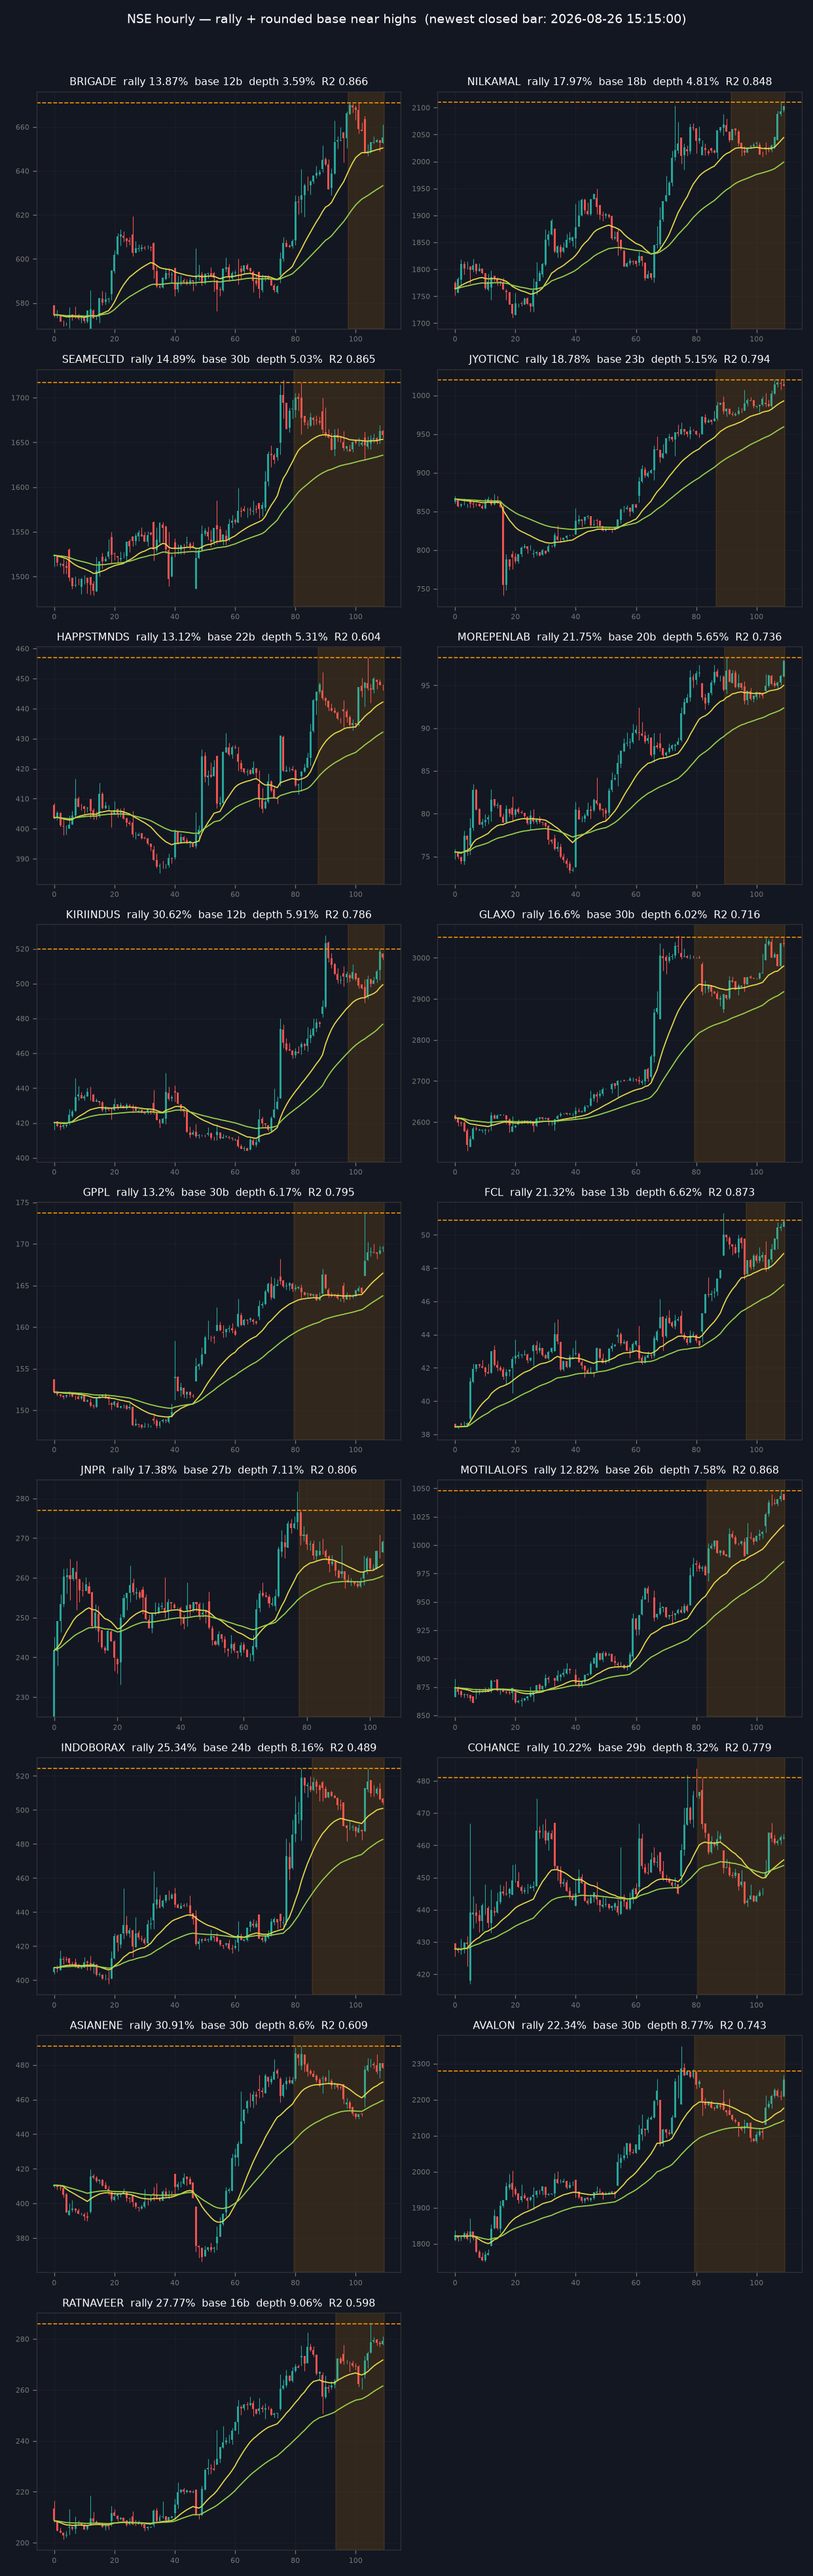
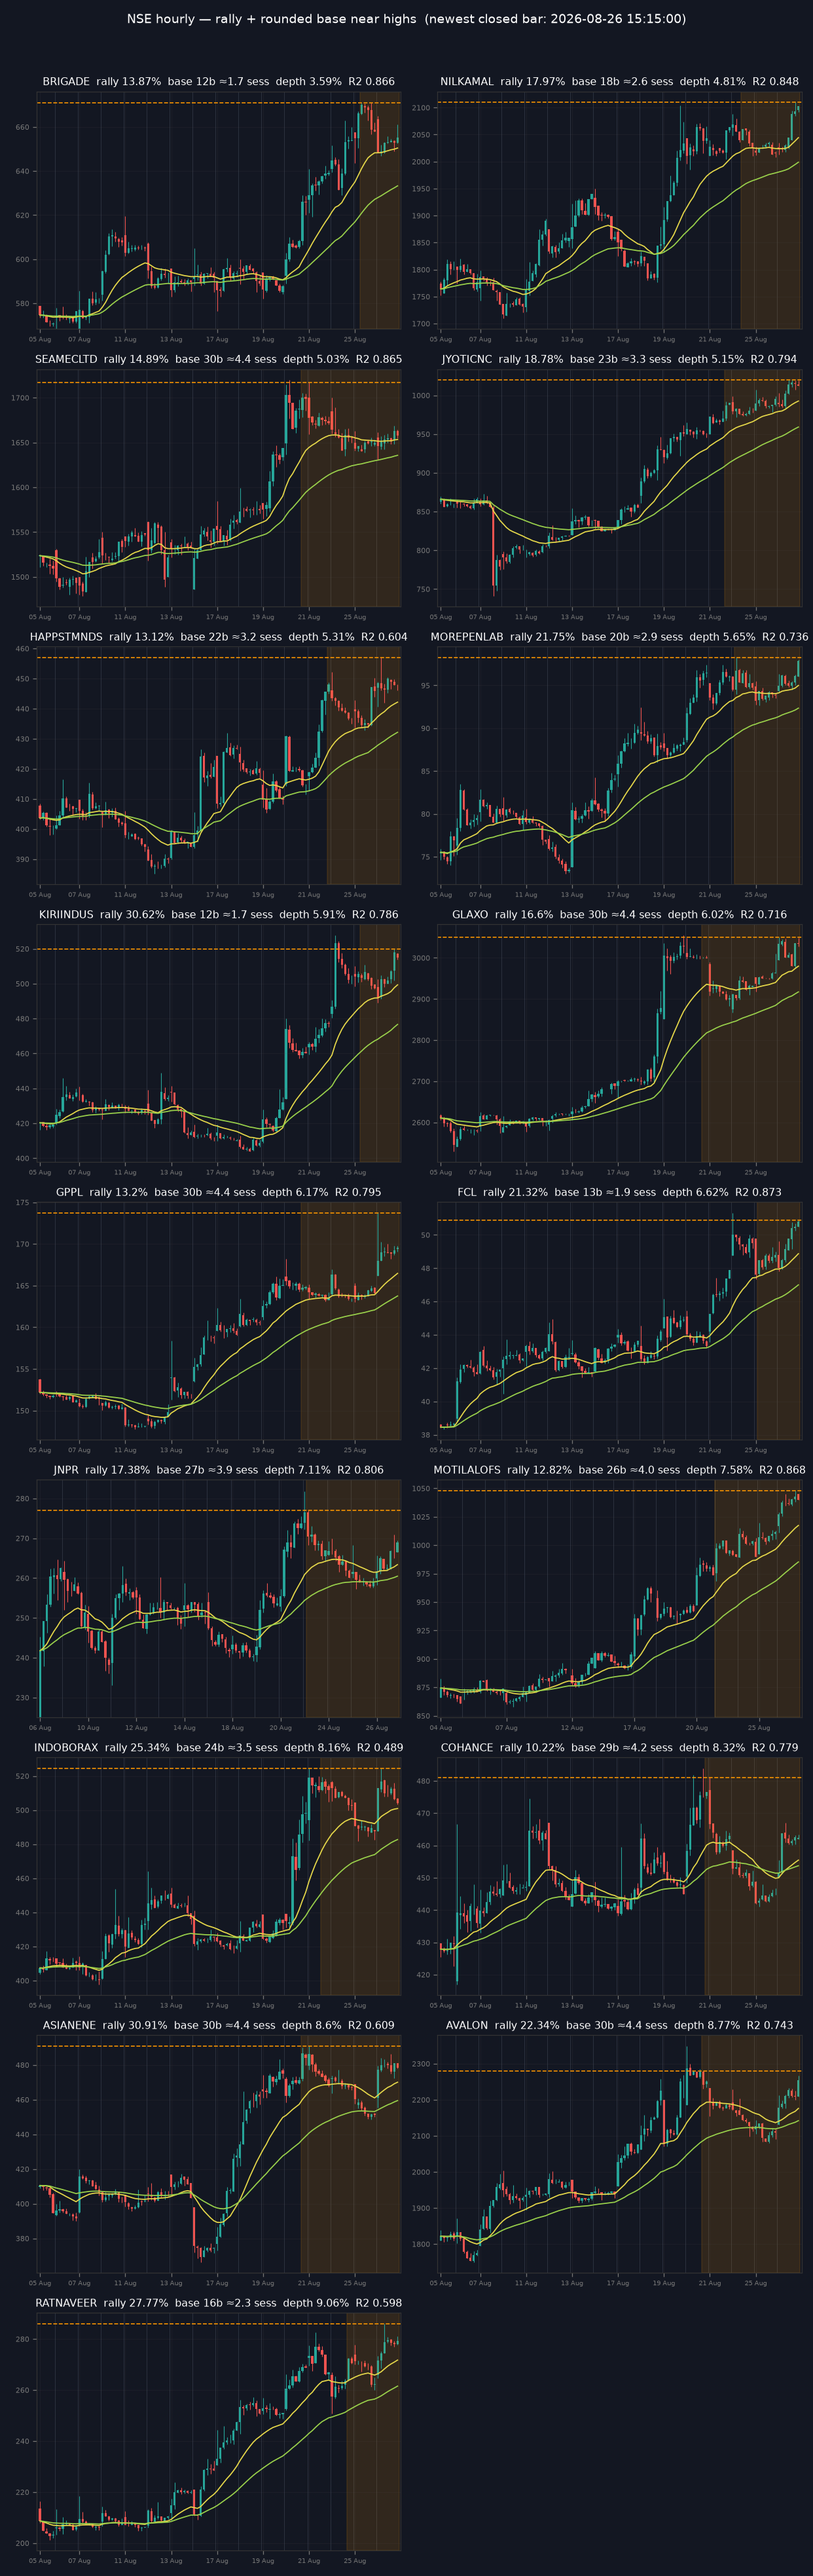
Re-render 2026-08-26 panels with a dated x-axis; quote bases in sessions
The archived chart carried a bare 0..110 bar index, which reads as ~5 months
of daily candles rather than the ~3 weeks of hourly ones it actually is. The
data was always hourly -- 09:15..15:15 at ~6.9 bars per session, verified
against all_closed.parquet -- but nothing on the panel said so, and the bar
counts in the report inherited the same ambiguity.

Re-rendered with session-boundary rules, dated tick labels, and each panel
title restating base width in sessions. The report gains an "≈ Sessions"
column beside "Base bars" plus a note that the widest base here is 4.4
sessions, not 30 days.

This sharpens three readings rather than changing any number: BRIGADE (#1 on
RRR), KIRIINDUS and FCL build their entire base in under two sessions, which
is thin evidence a base exists and is now the batch's headline caveat.

Chart and prose only -- hits_clean.csv, hits_clean.json and run_meta.json are
byte-identical, and no detector threshold, filter parameter, or ranking rule
was touched.

Claude-Session: https://claude.ai/code/session_01Jdo4MSEG9UpCmjALiQ1HHW

diff --git a/runs/2026-08-26/1705-EQ/report.md b/runs/2026-08-26/1705-EQ/report.md
@@ -72,25 +72,31 @@ Ranked by `rrr_structural` = 15% target ÷ base depth. This reduces to inverse b
 depth — it says what the trade pays if it works and is **silent on how often it
 works**. Do not read row 1 as most likely to succeed.
 
-| # | Symbol | RRR | Entry (lip) | Base low | Depth % | Risk to base low % | Dist from lip % | Base bars | Rally % | R² | Vol ratio | Turnover ₹cr |
-|---|---|---|---|---|---|---|---|---|---|---|---|---|
-| 1 | BRIGADE | 4.18 | 671.00 | 646.90 | 3.59 | 3.59 | 2.37 | 12 | 13.87 | 0.866 | 0.79 | 13.7 |
-| 2 | NILKAMAL | 3.12 | 2110.00 | 2008.60 | 4.81 | 4.81 | 0.33 | 18 | 17.97 | 0.848 | 0.09 | 6.7 |
-| 3 | SEAMECLTD | 2.98 | 1716.90 | 1630.50 | 5.03 | 5.03 | 3.42 | 30 | 14.89 | 0.865 | 0.25 | 6.2 |
-| 4 | JYOTICNC | 2.91 | 1020.00 | 967.45 | 5.15 | 5.15 | 0.72 | 23 | 18.78 | 0.794 | 0.50 | 53.8 |
-| 5 | HAPPSTMNDS | 2.82 | 457.00 | 432.75 | 5.31 | 5.31 | 2.00 | 22 | 13.12 | 0.604 | 0.46 | 30.9 |
-| 6 | MOREPENLAB | 2.65 | 98.25 | 92.70 | 5.65 | 5.65 | 0.37 | 20 | 21.75 | 0.736 | 0.50 | 119.6 |
-| 7 | KIRIINDUS | 2.54 | 519.80 | 489.10 | 5.91 | 5.91 | 0.92 | 12 | 30.62 | 0.786 | 0.26 | 7.2 |
-| 8 | GLAXO | 2.49 | 3049.90 | 2866.30 | 6.02 | 6.02 | 0.51 | 30 | 16.60 | 0.716 | 0.36 | 14.3 |
-| 9 | GPPL | 2.43 | 173.72 | 163.00 | 6.17 | 6.17 | 2.42 | 30 | 13.20 | 0.795 | 0.74 | 15.1 |
-| 10 | FCL | 2.27 | 50.90 | 47.53 | 6.62 | 6.62 | 0.16 | 13 | 21.32 | 0.873 | 0.74 | 28.5 |
-| 11 | JNPR | 2.11 | 277.00 | 257.31 | 7.11 | 7.11 | 2.89 | 27 | 17.38 | 0.806 | 0.30 | 31.6 |
-| 12 | MOTILALOFS | 1.98 | 1048.00 | 968.55 | 7.58 | 7.58 | 0.76 | 26 | 12.82 | 0.868 | 0.71 | 53.5 |
-| 13 | INDOBORAX | 1.84 | 524.50 | 481.70 | 8.16 | 8.16 | 3.86 | 24 | 25.34 | 0.489 | 0.22 | 5.1 |
-| 14 | COHANCE | 1.80 | 481.00 | 441.00 | 8.32 | 8.32 | 3.88 | 29 | 10.22 | 0.779 | 0.36 | 24.0 |
-| 15 | ASIANENE | 1.74 | 490.95 | 448.75 | 8.60 | 8.60 | 2.53 | 30 | 30.91 | 0.609 | 0.26 | 11.0 |
-| 16 | AVALON | 1.71 | 2279.30 | 2079.40 | 8.77 | 8.77 | 1.07 | 30 | 22.34 | 0.743 | 0.61 | 55.8 |
-| 17 | RATNAVEER | 1.66 | 286.00 | 260.10 | 9.06 | 9.06 | 2.35 | 16 | 27.77 | 0.598 | 0.64 | 92.0 |
+| # | Symbol | RRR | Entry (lip) | Base low | Depth % | Risk to base low % | Dist from lip % | Base bars | ≈ Sessions | Rally % | R² | Vol ratio | Turnover ₹cr |
+|---|---|---|---|---|---|---|---|---|---|---|---|---|---|
+| 1 | BRIGADE | 4.18 | 671.00 | 646.90 | 3.59 | 3.59 | 2.37 | 12 | **1.7** | 13.87 | 0.866 | 0.79 | 13.7 |
+| 2 | NILKAMAL | 3.12 | 2110.00 | 2008.60 | 4.81 | 4.81 | 0.33 | 18 | 2.6 | 17.97 | 0.848 | 0.09 | 6.7 |
+| 3 | SEAMECLTD | 2.98 | 1716.90 | 1630.50 | 5.03 | 5.03 | 3.42 | 30 | 4.4 | 14.89 | 0.865 | 0.25 | 6.2 |
+| 4 | JYOTICNC | 2.91 | 1020.00 | 967.45 | 5.15 | 5.15 | 0.72 | 23 | 3.3 | 18.78 | 0.794 | 0.50 | 53.8 |
+| 5 | HAPPSTMNDS | 2.82 | 457.00 | 432.75 | 5.31 | 5.31 | 2.00 | 22 | 3.2 | 13.12 | 0.604 | 0.46 | 30.9 |
+| 6 | MOREPENLAB | 2.65 | 98.25 | 92.70 | 5.65 | 5.65 | 0.37 | 20 | 2.9 | 21.75 | 0.736 | 0.50 | 119.6 |
+| 7 | KIRIINDUS | 2.54 | 519.80 | 489.10 | 5.91 | 5.91 | 0.92 | 12 | **1.7** | 30.62 | 0.786 | 0.26 | 7.2 |
+| 8 | GLAXO | 2.49 | 3049.90 | 2866.30 | 6.02 | 6.02 | 0.51 | 30 | 4.4 | 16.60 | 0.716 | 0.36 | 14.3 |
+| 9 | GPPL | 2.43 | 173.72 | 163.00 | 6.17 | 6.17 | 2.42 | 30 | 4.4 | 13.20 | 0.795 | 0.74 | 15.1 |
+| 10 | FCL | 2.27 | 50.90 | 47.53 | 6.62 | 6.62 | 0.16 | 13 | **1.9** | 21.32 | 0.873 | 0.74 | 28.5 |
+| 11 | JNPR | 2.11 | 277.00 | 257.31 | 7.11 | 7.11 | 2.89 | 27 | 3.9 | 17.38 | 0.806 | 0.30 | 31.6 |
+| 12 | MOTILALOFS | 1.98 | 1048.00 | 968.55 | 7.58 | 7.58 | 0.76 | 26 | 4.0 | 12.82 | 0.868 | 0.71 | 53.5 |
+| 13 | INDOBORAX | 1.84 | 524.50 | 481.70 | 8.16 | 8.16 | 3.86 | 24 | 3.5 | 25.34 | 0.489 | 0.22 | 5.1 |
+| 14 | COHANCE | 1.80 | 481.00 | 441.00 | 8.32 | 8.32 | 3.88 | 29 | 4.2 | 10.22 | 0.779 | 0.36 | 24.0 |
+| 15 | ASIANENE | 1.74 | 490.95 | 448.75 | 8.60 | 8.60 | 2.53 | 30 | 4.4 | 30.91 | 0.609 | 0.26 | 11.0 |
+| 16 | AVALON | 1.71 | 2279.30 | 2079.40 | 8.77 | 8.77 | 1.07 | 30 | 4.4 | 22.34 | 0.743 | 0.61 | 55.8 |
+| 17 | RATNAVEER | 1.66 | 286.00 | 260.10 | 9.06 | 9.06 | 2.35 | 16 | 2.3 | 27.77 | 0.598 | 0.64 | 92.0 |
+
+**Read the bar counts as sessions.** These are hourly candles at roughly 6.9 bars
+per NSE session, so the widest base here is **4.4 sessions**, not 30 days — the
+entire 110-bar plot window spans about three weeks. Three names build their whole
+"base" in under two sessions (BRIGADE, KIRIINDUS, FCL), which is thin evidence that
+a base exists at all and is the single biggest caveat on this batch.
 
 **Two boundary passes** — a boundary pass is not the same evidence as a margin pass:
 
@@ -106,12 +112,14 @@ places, which is the point of the step.
 ### Clean structural match (4)
 
 - **MOREPENLAB** (#6) — the best structure in the batch. A sustained 22% multi-bar
-  climb from ₹73 to ₹98, then a shallow, genuinely rounded 20-bar base that dips to
-  ₹93.5 and recovers; both EMAs run under the base and rise through it; price is
-  pressing the lip (0.37% away). Easily the most liquid name here at ₹120cr/day.
-- **GLAXO** (#8) — a textbook 30-bar rounded U: down from ₹3,050 to ₹2,866, curved,
-  and back to ₹3,034, with the fast EMA dipping and rising through. The leg into it
-  was steep, but the base itself is the cleanest rounding on the sheet.
+  climb from ₹73 to ₹98, then a shallow, genuinely rounded 20-bar (≈2.9-session)
+  base that dips to ₹93.5 and recovers; both EMAs run under the base and rise
+  through it; price is pressing the lip (0.37% away). Easily the most liquid name
+  here at ₹120cr/day.
+- **GLAXO** (#8) — a textbook 30-bar (≈4.4-session) rounded U: down from ₹3,050 to
+  ₹2,866, curved, and back to ₹3,034, with the fast EMA dipping and rising through.
+  The leg into it was steep, but the base itself is the cleanest rounding on the
+  sheet.
 - **MOTILALOFS** (#12) — a clean ascending consolidation resolving upward on the
   final bars, EMAs stacked under and rising, ₹53cr/day. **Its rank is depressed by a
   wick** — see the sizing note below.
@@ -125,10 +133,10 @@ places, which is the point of the step.
 - **JYOTICNC** (#4) — strong, orderly uptrend, but **there is no base**: the shaded
   window is still rising. The 5.15% "depth" comes from a dip inside a continuation
   leg. Fine as a trend-continuation name, wrong as a rounded-base match.
-- **FCL** (#10) — tight 13-bar base sitting 0.16% under the lip, but short, and the
-  approach into it is steep.
-- **AVALON** (#16) — a reasonably rounded 30-bar base, undercut by 8.77% depth and
-  the boundary pass on the at-high filter.
+- **FCL** (#10) — tight 13-bar base sitting 0.16% under the lip, but that is only
+  **1.9 sessions**, and the approach into it is steep.
+- **AVALON** (#16) — a reasonably rounded 30-bar (≈4.4-session) base, undercut by
+  8.77% depth and the boundary pass on the at-high filter.
 - **ASIANENE** (#15) — rounds, but deep (8.6%) and it follows a near-vertical 31%
   advance.
 - **SEAMECLTD** (#3) — a flat shelf, not a cup. The fast EMA runs **flat** through
@@ -138,13 +146,13 @@ places, which is the point of the step.
   `max_bar_share` 0.48 against the 0.50 gap-driven floor: nearly half the rally came
   from one bar. It passed that filter by a hair.
 - **BRIGADE** (#1) — **the #1 rank is an artifact.** Its base is only 12 bars, and a
-  short base is mechanically shallow, which is exactly what RRR rewards. What the
-  panel shows is a 12-bar pullback from a spike top, with the fast EMA flat through
-  it. Shallow because brief, not shallow because tight.
+  short base is mechanically shallow, which is exactly what RRR rewards. At ≈6.9 bars
+  per session that is a **1.7-session** pullback from a spike top, with the fast EMA
+  flat through it. Shallow because brief, not shallow because tight.
 - **GPPL** (#9) — flat shelf at ₹163–166, and the ₹173.72 lip is set by a single
   spike candle that price has already fallen 2.4% back from.
-- **KIRIINDUS** (#7) — a near-vertical 31% advance with a 12-bar pause. Thin
-  evidence that a base exists at all.
+- **KIRIINDUS** (#7) — a near-vertical 31% advance with a 12-bar (**1.7-session**)
+  pause. Thin evidence that a base exists at all.
 
 ### Distrust despite passing every filter (4)
 
@@ -153,8 +161,8 @@ places, which is the point of the step.
   There is heavy overhead supply at ₹465–475, rejected twice earlier in the panel.
   This is a failed breakout, structurally the opposite of the setup.
 - **RATNAVEER** (#17) — the V-bounce the skill exists to catch: a sharp 9% drop and
-  an equally sharp recovery over 16 bars, sitting on top of a 37% run. Deepest base
-  in the batch, and the shape is a checkmark, not a saucer.
+  an equally sharp recovery over 16 bars (≈2.3 sessions), sitting on top of a 37%
+  run. Deepest base in the batch, and the shape is a checkmark, not a saucer.
 - **INDOBORAX** (#13) — weakest fit here (R² 0.489, barely over the 0.45 floor), a
   noisy shelf after a near-vertical 25% spike, **and** the boundary liquidity pass.
   Three weak signals stacked.
